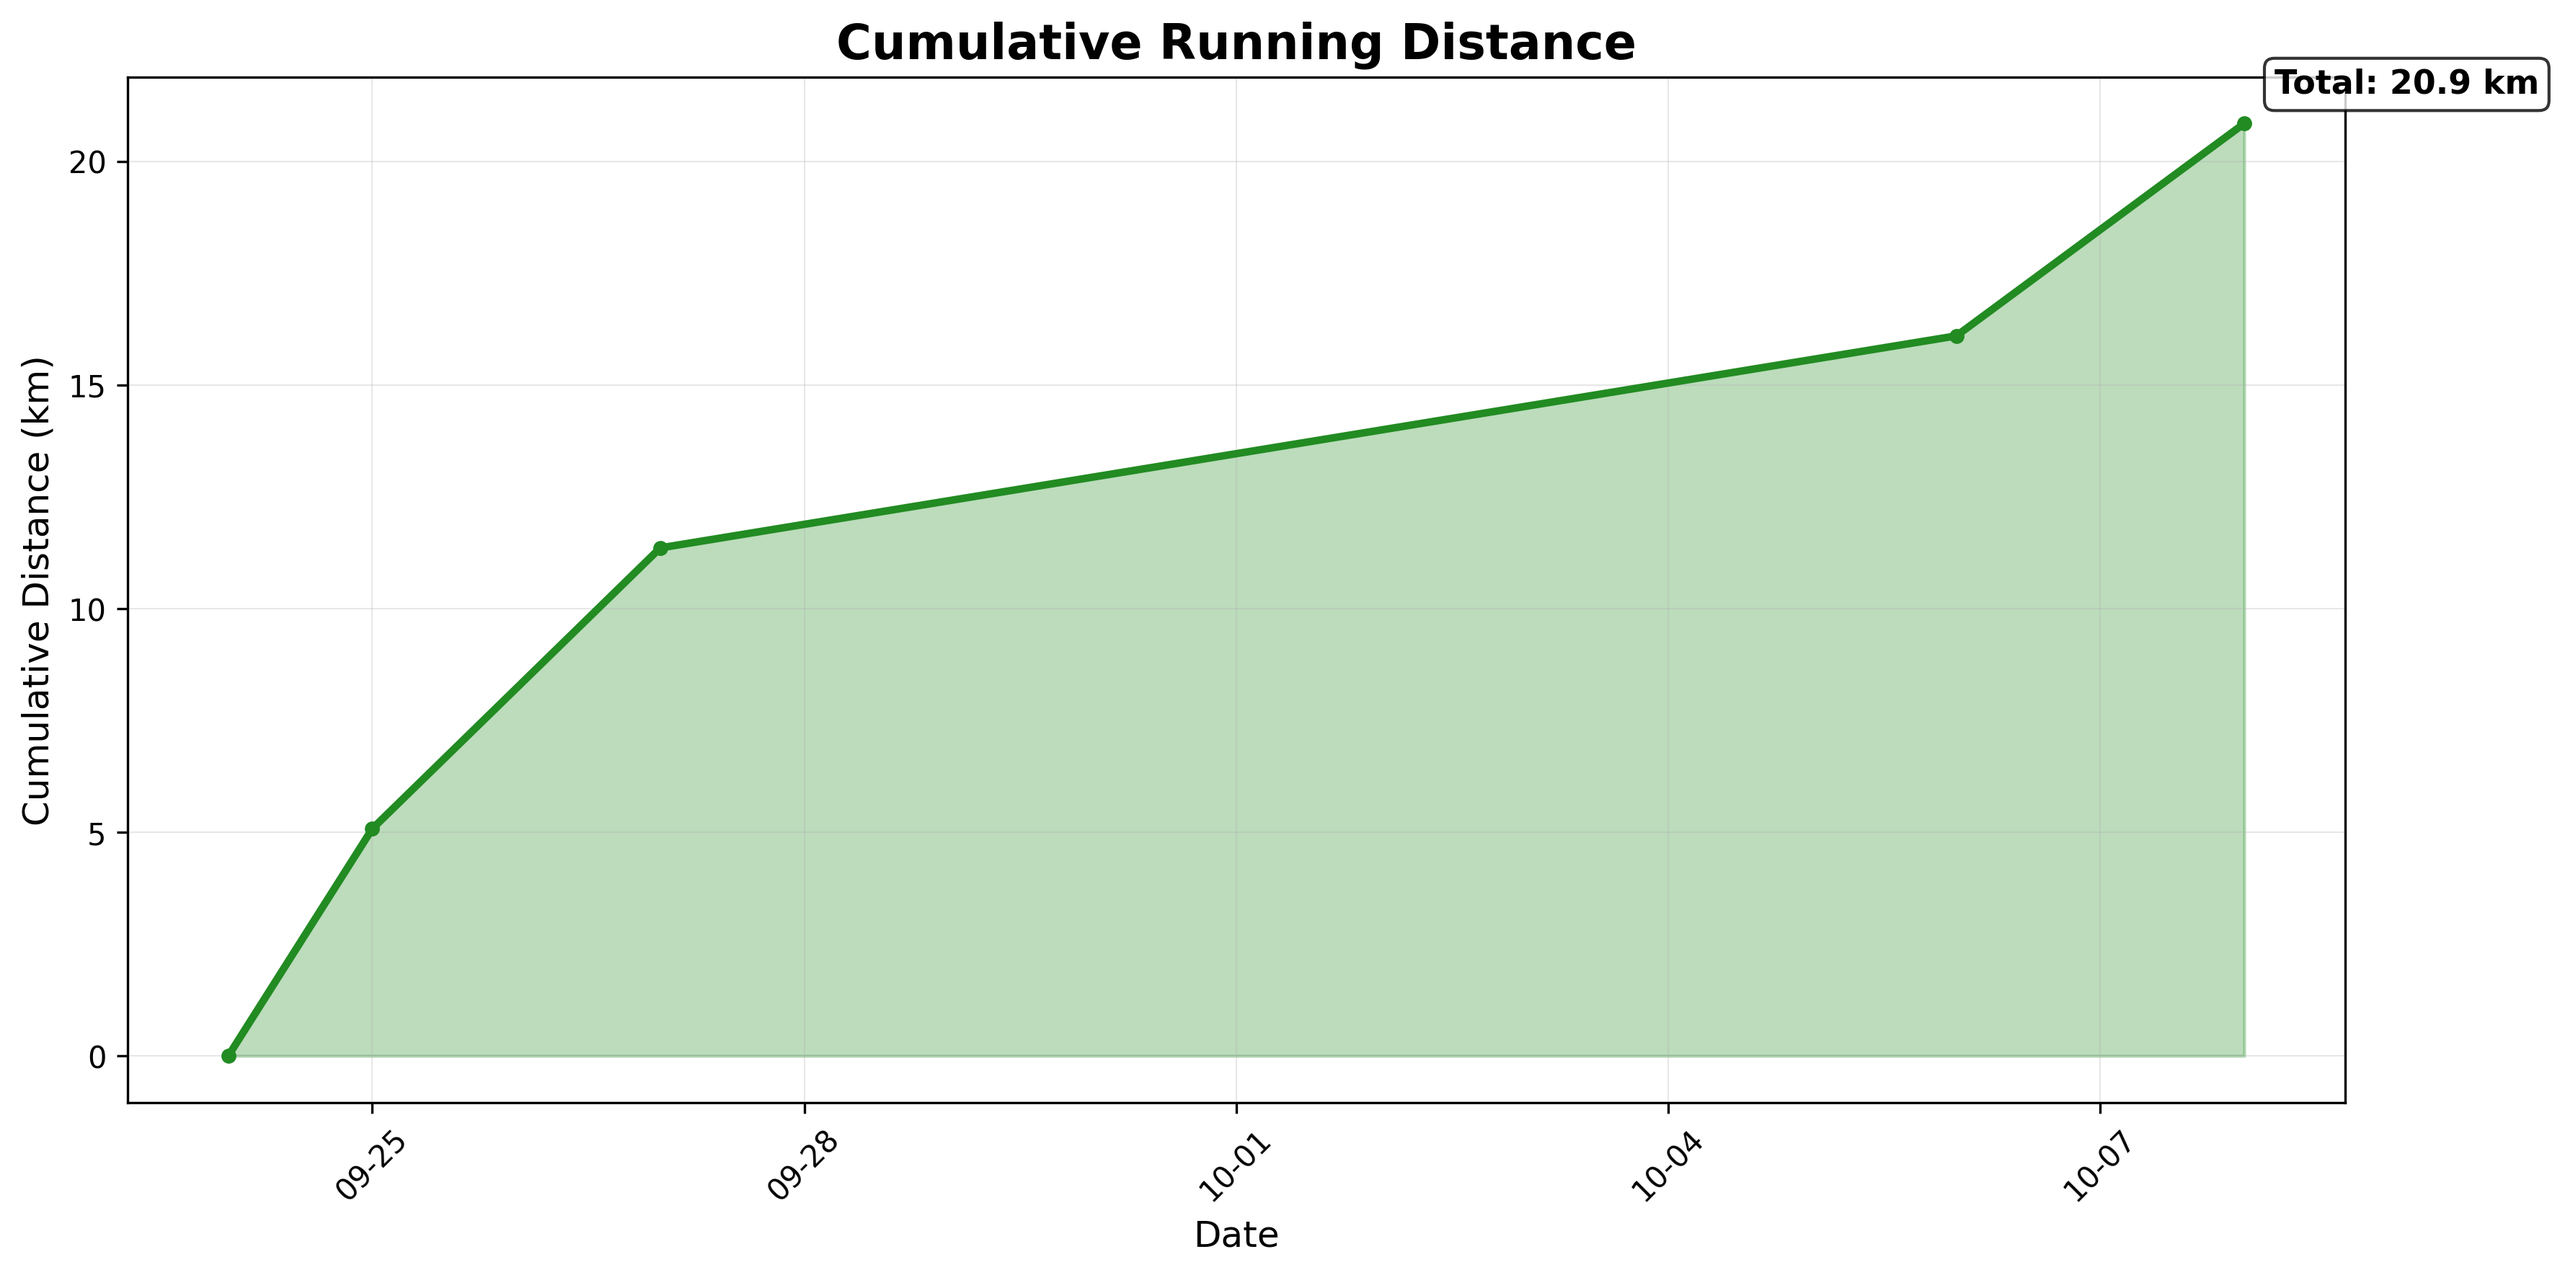
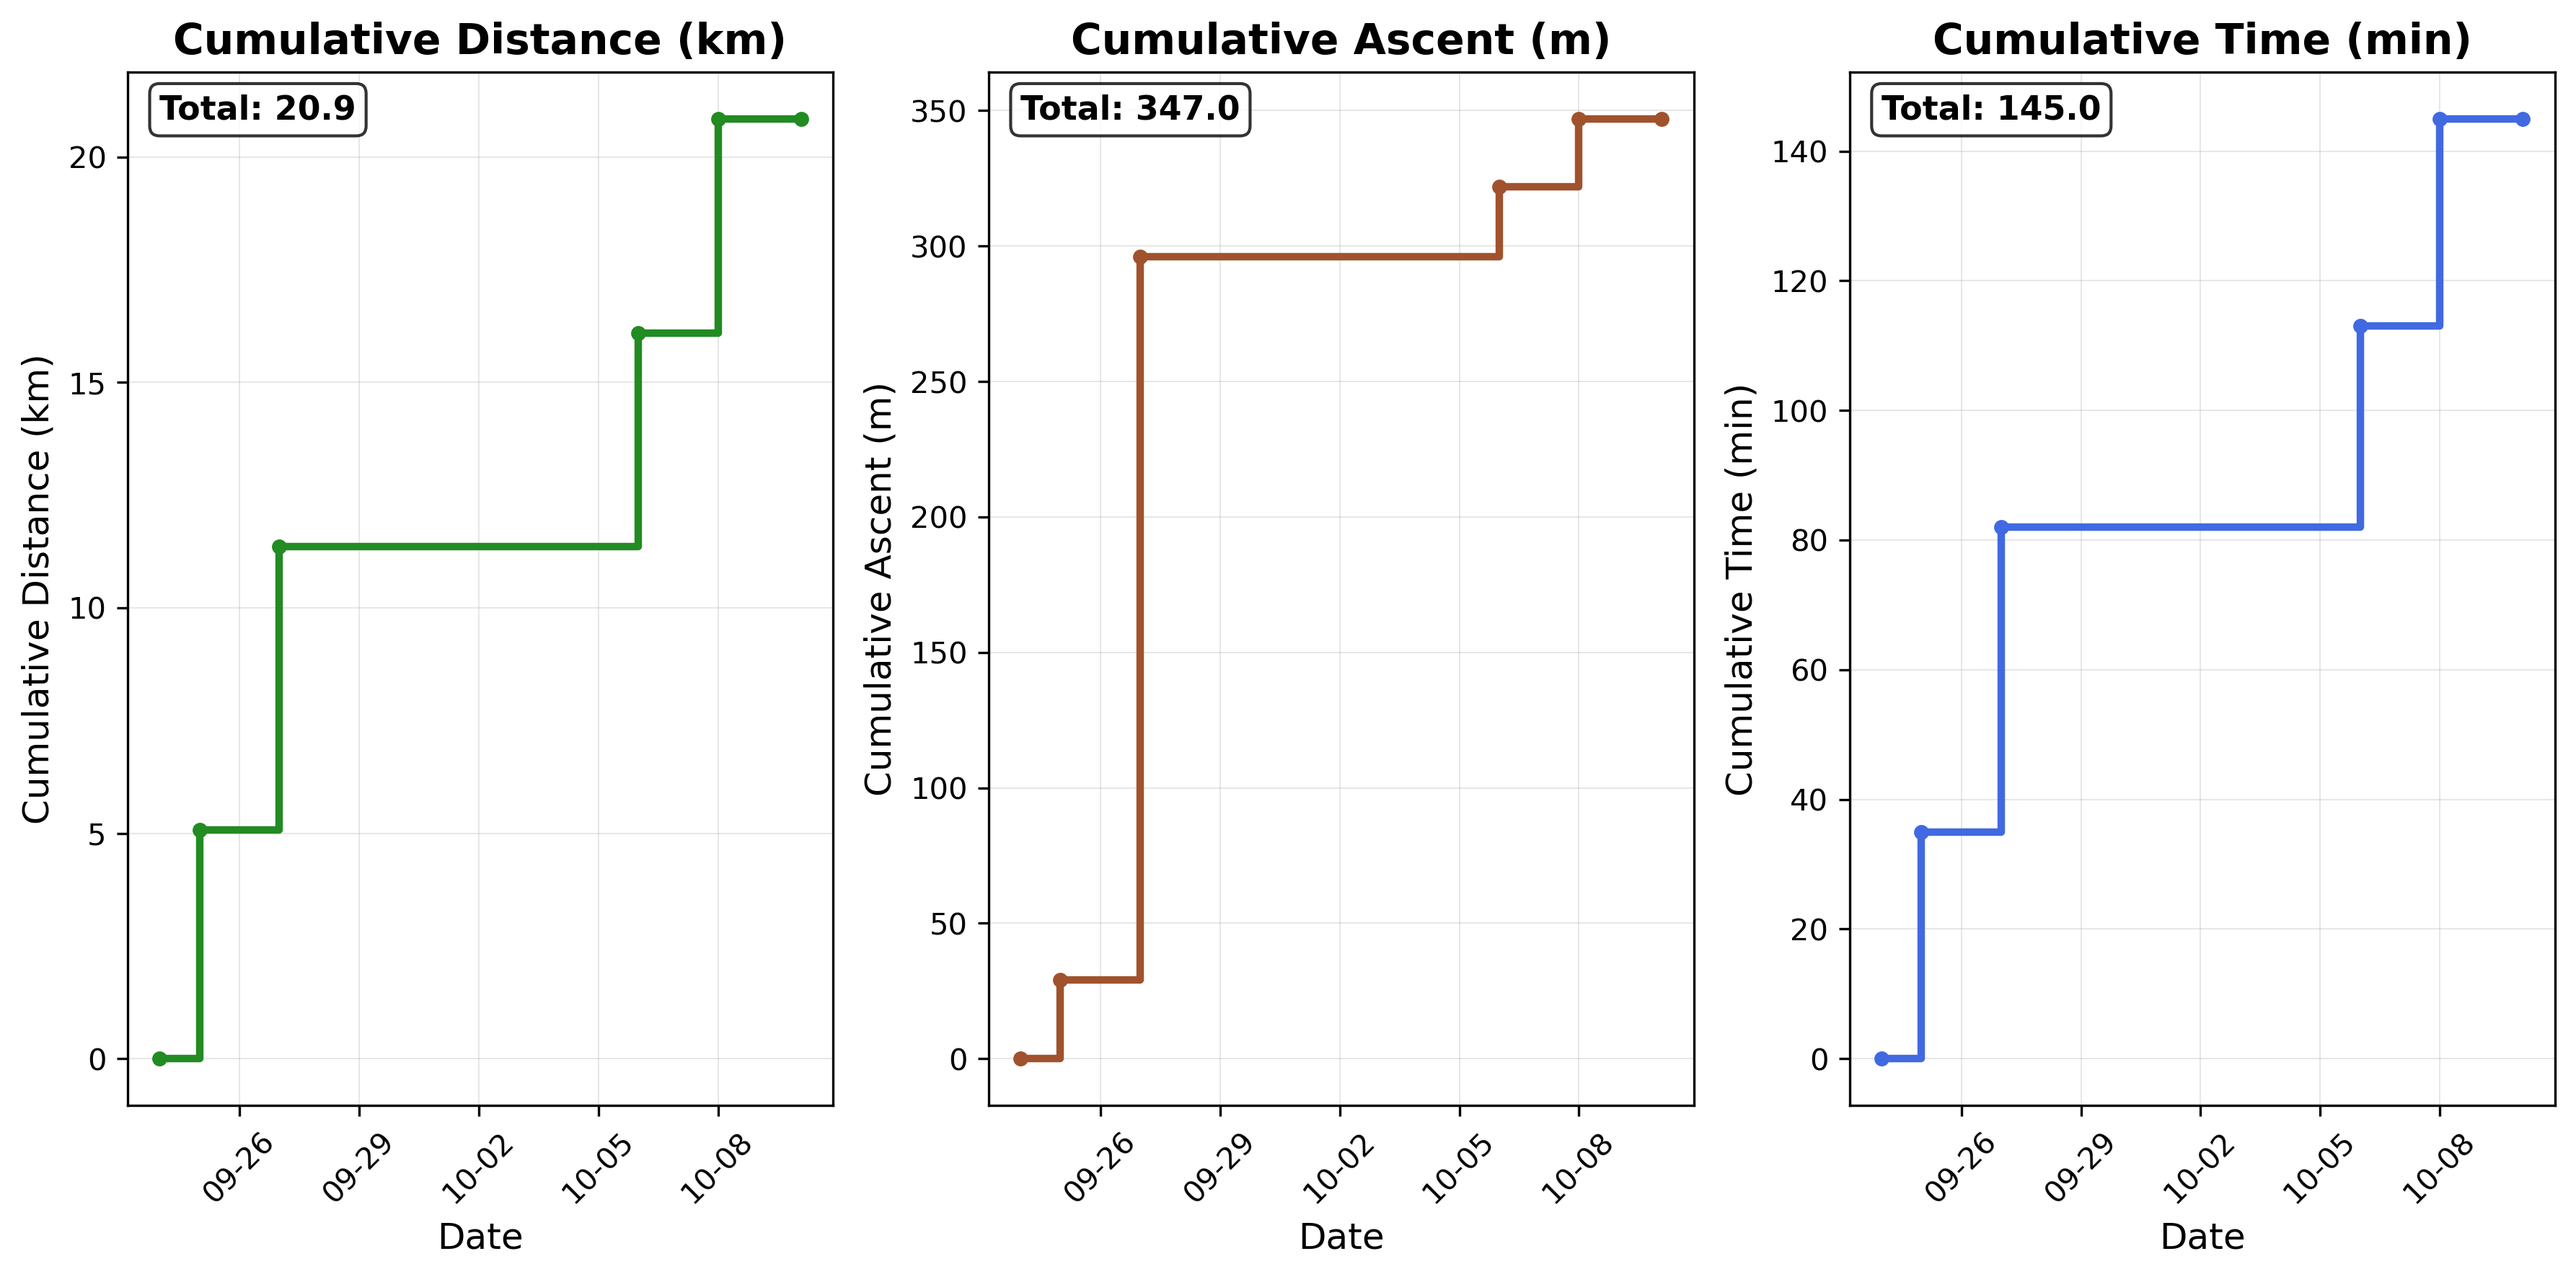
adapt running and add hiking plot

diff --git a/generate_health_plots.py b/generate_health_plots.py
@@ -124,39 +124,40 @@ def generate_running_plot():
     
     # Calculate cumulative distance
     df = df.sort_values('date')
+    # insert a row with today's date and 0 distance if today's date is not present
+    df = df._append({'date': datetime.now(), 'distance_km': 0, 'ascent_m': 0, 'time_min': 0}, ignore_index=True)
+    
     df['cumulative_km'] = df['distance_km'].cumsum()
+    df['cumulative_ascent_m'] = df['ascent_m'].cumsum()
+    df['cumulative_min'] = df['time_min'].cumsum()
     
     # Create the plot
-    plt.figure(figsize=(12, 6))
-    
-    # Create line plot with markers
-    plt.plot(df['date'], df['cumulative_km'], 
-             color='forestgreen', linewidth=2.5, marker='o', markersize=4)
-    
-    # Fill area under the curve
-    plt.fill_between(df['date'], df['cumulative_km'], alpha=0.3, color='forestgreen')
-    
-    # Customize the plot
-    plt.title('Cumulative Running Distance', fontsize=16, fontweight='bold')
-    plt.xlabel('Date', fontsize=12)
-    plt.ylabel('Cumulative Distance (km)', fontsize=12)
-    
-    # Format x-axis dates
-    plt.gca().xaxis.set_major_formatter(mdates.DateFormatter('%m-%d'))
-    plt.gca().xaxis.set_major_locator(mdates.DayLocator(interval=3))
-    plt.xticks(rotation=45)
-    
-    # Add grid for better readability
-    plt.grid(alpha=0.3, linestyle='-', linewidth=0.5)
-    
-    # Add annotation for total distance
-    total_distance = df['cumulative_km'].iloc[-1]
-    plt.annotate(f'Total: {total_distance:.1f} km', 
-                xy=(df['date'].iloc[-1], total_distance),
-                xytext=(10, 10), textcoords='offset points',
-                bbox=dict(boxstyle='round,pad=0.3', fc='white', alpha=0.8),
-                fontsize=11, fontweight='bold')
-    
+    fig, axs = plt.subplots(1, 3, figsize=(12, 6))
+   
+    for i, (col, title, color) in enumerate(zip(
+        ['cumulative_km', 'cumulative_ascent_m', 'cumulative_min'],
+        ['Cumulative Distance (km)', 'Cumulative Ascent (m)', 'Cumulative Time (min)'],
+        ['forestgreen', 'sienna', 'royalblue']
+    )):
+        axs[i].step(df['date'], df[col], where='post', 
+                    color=color, linewidth=2.5, marker='o', markersize=4)
+        axs[i].set_title(title, fontsize=14, fontweight='bold')
+        axs[i].set_xlabel('Date', fontsize=12)
+        axs[i].set_ylabel(title, fontsize=12)
+        axs[i].xaxis.set_major_formatter(mdates.DateFormatter('%m-%d'))
+        axs[i].xaxis.set_major_locator(mdates.DayLocator(interval=3))
+        axs[i].tick_params(axis='x', rotation=45)
+        axs[i].grid(alpha=0.3, linestyle='-', linewidth=0.5)
+        
+        # Add annotation for total
+        total_value = df[col].iloc[-1]
+        axs[i].annotate(f'Total: {total_value:.1f}', 
+                        xy=(df['date'].iloc[0], total_value),
+                        xytext=(0, 0), textcoords='offset points',
+                        bbox=dict(boxstyle='round,pad=0.3', fc='white', alpha=0.8),
+                        fontsize=11, fontweight='bold')
+
+
     # Adjust layout to prevent label cutoff
     plt.tight_layout()
     
@@ -180,6 +181,56 @@ def generate_running_plot():
     plt.close()
     return True
 
+# copy of running plot for hiking
+def generate_hiking_plot():
+    """Generate cumulative hiking distance plot."""
+    
+    df = load_and_filter_data('data/hiking.csv', ['date', 'distance_km'], 30)  # Show more data for cumulative
+    if df is None:
+        return False
+    
+    # Calculate cumulative distance
+    df = df.sort_values('date')
+    df = df._append({'date': datetime.now(), 'distance_km': 0, 'ascent_m': 0, 'time_min': 0}, ignore_index=True)
+    df['cumulative_km'] = df['distance_km'].cumsum()
+    df['cumulative_ascent_m'] = df['ascent_m'].cumsum()
+    df['cumulative_min'] = df['time_min'].cumsum()
+    
+    # Create the plot
+    fig, axs = plt.subplots(1, 3, figsize=(12, 6))
+   
+    for i, (col, title, color) in enumerate(zip(
+        ['cumulative_km', 'cumulative_ascent_m', 'cumulative_min'],
+        ['Cumulative Distance (km)', 'Cumulative Ascent (m)', 'Cumulative Time (min)'],
+        ['forestgreen', 'sienna', 'royalblue']
+    )):
+        axs[i].step(df['date'], df[col], where='post', 
+                    color=color, linewidth=2.5, marker='o', markersize=4)
+        axs[i].set_title(title, fontsize=14, fontweight='bold')
+        axs[i].set_xlabel('Date', fontsize=12)
+        axs[i].set_ylabel(title, fontsize=12)
+        axs[i].xaxis.set_major_formatter(mdates.DateFormatter('%m-%d'))
+        axs[i].xaxis.set_major_locator(mdates.DayLocator(interval=3))
+        axs[i].tick_params(axis='x', rotation=45)
+        axs[i].grid(alpha=0.3, linestyle='-', linewidth=0.5)
+        
+        # Add annotation for total
+        total_value = df[col].iloc[-1]
+        axs[i].annotate(f'Total: {total_value:.1f}', 
+                        xy=(df['date'].iloc[0], total_value),
+                        xytext=(0, 0), textcoords='offset points',
+                        bbox=dict(boxstyle='round,pad=0.3', fc='white', alpha=0.8),
+                        fontsize=11, fontweight='bold')
+
+
+    # Adjust layout to prevent label cutoff
+    plt.tight_layout()
+    
+    # Save the plot
+    output_file = 'stats/plots/cumulative_hiking.png'
+    plt.savefig(output_file, dpi=300, bbox_inches='tight', facecolor='white')
+    print(f"Plot saved to {output_file}")
+    return True
 
 def generate_hrv_plot():
     """Generate heart rate variability trend plot."""
@@ -266,7 +317,10 @@ def main():
     # Generate running plot
     if generate_running_plot():
         plots_generated += 1
-    
+
+    if generate_hiking_plot():
+        plots_generated += 1
+
     # Generate HRV plot  
     if generate_hrv_plot():
         plots_generated += 1

diff --git a/stats.md b/stats.md
@@ -16,17 +16,26 @@ Here's my daily step count for the last 14 days:
   <img src="{{ '/alex-goes-usa-diary/stats/plots/steps_per_day.png' }}" alt="Daily Steps - Last 14 Days" style="max-width: 100%; height: auto; border: 1px solid #ddd; border-radius: 8px; box-shadow: 0 2px 4px rgb(0 0 0 / 8%);" />
 </div>
 
-## Cumulative Running Distance
+## Cumulative Running Stats
 
 Track my running progress over time:
 
 <div class="stats-container">
-  <img src="{{ '/alex-goes-usa-diary/stats/plots/cumulative_running.png'}}" alt="Cumulative Running Distance" style="max-width: 100%; height: auto; border: 1px solid #ddd; border-radius: 8px; box-shadow: 0 2px 4px rgb(0 0 0 / 8%);" />
+  <img src="{{ '/alex-goes-usa-diary/stats/plots/cumulative_running.png'}}" alt="Cumulative Running" style="max-width: 100%; height: auto; border: 1px solid #ddd; border-radius: 8px; box-shadow: 0 2px 4px rgb(0 0 0 / 8%);" />
+</div>
+
+## Cumulative Hiking Stats
+
+Track my hiking progress over time:
+
+<div class="stats-container">
+  <img src="{{ '/alex-goes-usa-diary/stats/plots/cumulative_hiking.png'}}" alt="Cumulative Hiking" style="max-width: 100%; height: auto; border: 1px solid #ddd; border-radius: 8px; box-shadow: 0 2px 4px rgb(0 0 0 / 8%);" />
 </div>
 
 ## Heart Rate Variability Trend
 
-Monitoring recovery and training adaptation:
+Monitoring recovery and training adaptation.
+
 
 <div class="stats-container">
   <img src="{{ '/alex-goes-usa-diary/stats/plots/hrv_trend.png'}}" alt="Heart Rate Variability Trend" style="max-width: 100%; height: auto; border: 1px solid #ddd; border-radius: 8px; box-shadow: 0 2px 4px rgb(0 0 0 / 8%);" />
